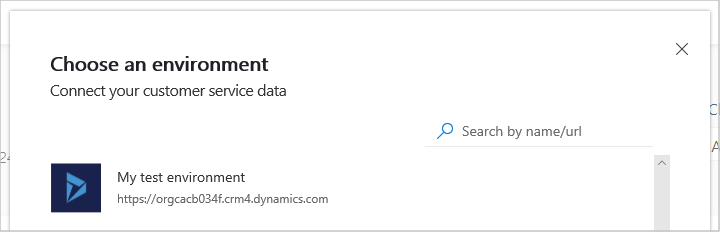
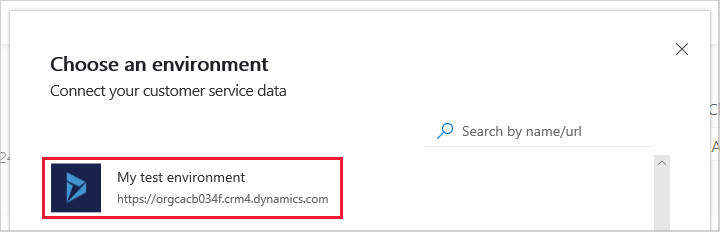
updated screen shots

Changed region(s): [[0.0611, 0.6638, 0.4889, 0.9655]]

diff --git a/ai-docs/customer-service-insights/quickstart.md b/ai-docs/customer-service-insights/quickstart.md
@@ -20,29 +20,27 @@ Dynamics 365 Customer Service Insights lets you quickly connect to your existing
 
 ## To connect to your customer service data
 
-1. Navigate to [https://csi.ai.dynamics.com](https://csi.ai.dynamics.com) in your browser to open the Customer Service Insights environment. Customer Service Insights displays the **Connect your data** screen. Customer Service Insights supports Microsoft Edge, Internet Explorer 11, and Chrome browsers.
+1. Navigate to [https://csi.ai.dynamics.com](https://csi.ai.dynamics.com) in your browser to open Customer Service Insights. Customer Service Insights supports Microsoft Edge, Internet Explorer 11, and Chrome browsers.
+
+   On the **Connect your data** screen, select the data source for your customer service data.
 
    > ![Connect your data screen](media/connect-data.png)
 
-2. Select **Dynamics 365** to create a workspace using Dynamics 365 customer service data. Customer Service Insights displays the **Choose an environment** screen.
+2. On the **Choose an environment** screen, create a Customer Service Insights workspace by selecting the customer service environment you want to use.
 
    > ![Choose an environment screen](media/choose-environment.png)
 
    For more information on working with workspaces, see [Use workspaces to connect to different customer service environments](use-workspaces.md).
 
-3. Click the Dynamics 365 environment that contains the customer service data that you want to use.
-
    Customer Service Insights configures the workspace to use the environment you selected and displays the environment's customer service data in the KPI Summary dashboard.
 
-   > [!div class="mx-imgBorder"]
-   > ![KPI summary dashboard](media/ai-customer-service-insights.png)
+   > ![KPI summary dashboard](media/kpi-summary.png)
 
 You can gain a variety of insights from the Customer Service Insights dashboards. For example, AI Insights charts help you identify support cases that have the most impact on your system.
 
 If you want to explore working with the dashboards using sample data before connecting to live data, use the Customer Service Insights built-in demo workspace. To open the demo workspace, select **demo workspace** on the **Connect your data** screen.
 
-> [!div class="mx-imgBorder"]
-> ![Demo workspace](media/ai-csi-qs-demo-workspace.png)
+> ![Demo workspace](media/demo-workspace.png)
 
 For more information about how to use the dashboards and sample data, see [Work with Customer Service Insights dashboards](use-dashboard-sample-data.md).
 

diff --git a/ai-docs/customer-service-insights/use-workspaces.md b/ai-docs/customer-service-insights/use-workspaces.md
@@ -22,13 +22,11 @@ When you work with the dashboards in Customer Service Insights, you have a choic
 
 To launch Customer Service Insights, navigate to [https://csi.ai.dynamics.com](https://csi.ai.dynamics.com) in your browser. Customer Service Insights opens the **Connect your data** screen so you can create a workspace by connecting to a data source.
 
-> [!div class="mx-imgBorder"]
-> ![Connect your data screen](media/ai-csi-qs-connect-data.png)
+> ![Connect your data screen](media/connect-data.png)
 
 Each workspace displays customer service data from a specific customer service data environment. To connect to a Dynamics 365 for Customer Service Insights environment, select **Dynamics 365** to display the **Choose an environment** screen.
 
-> [!div class="mx-imgBorder"]
-> ![Choose an environment screen](media/ai-csi-qs-choose-environment.png)
+> ![Choose an environment screen](media/choose-environment.png)
 
 You can gain insights into multiple sets of customer service data by creating workspaces that each connect to a different environment. For example, you could create different workspaces for environments containing customer support information for specific areas, such as beauty products, retail, or banking.
 
